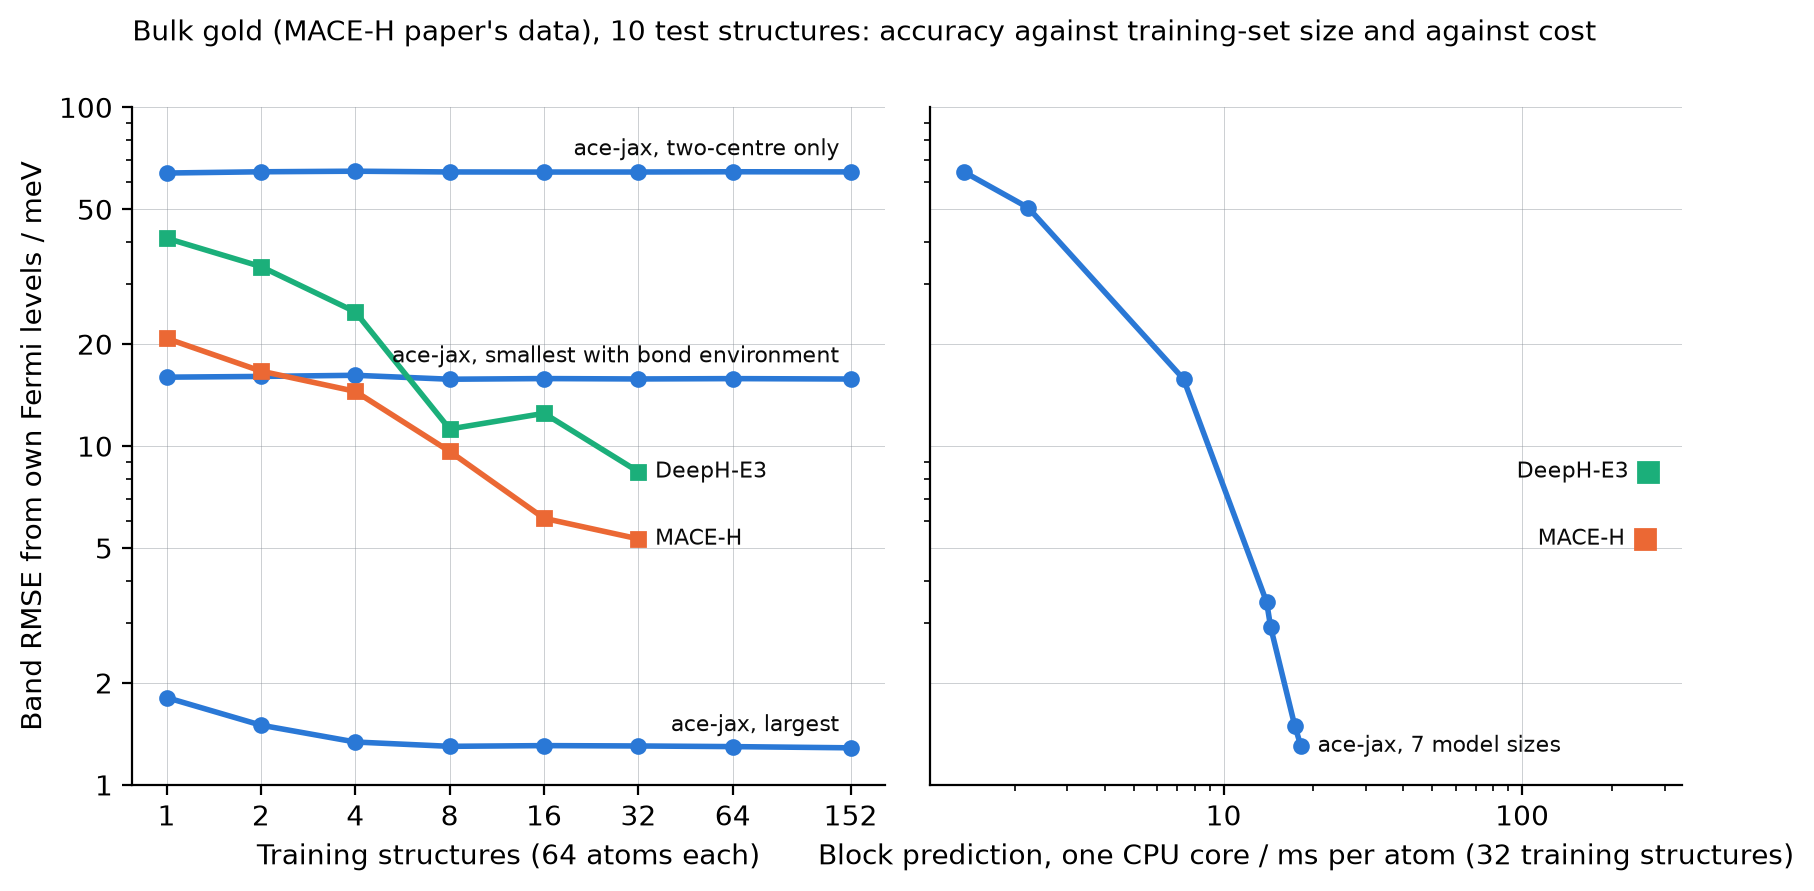
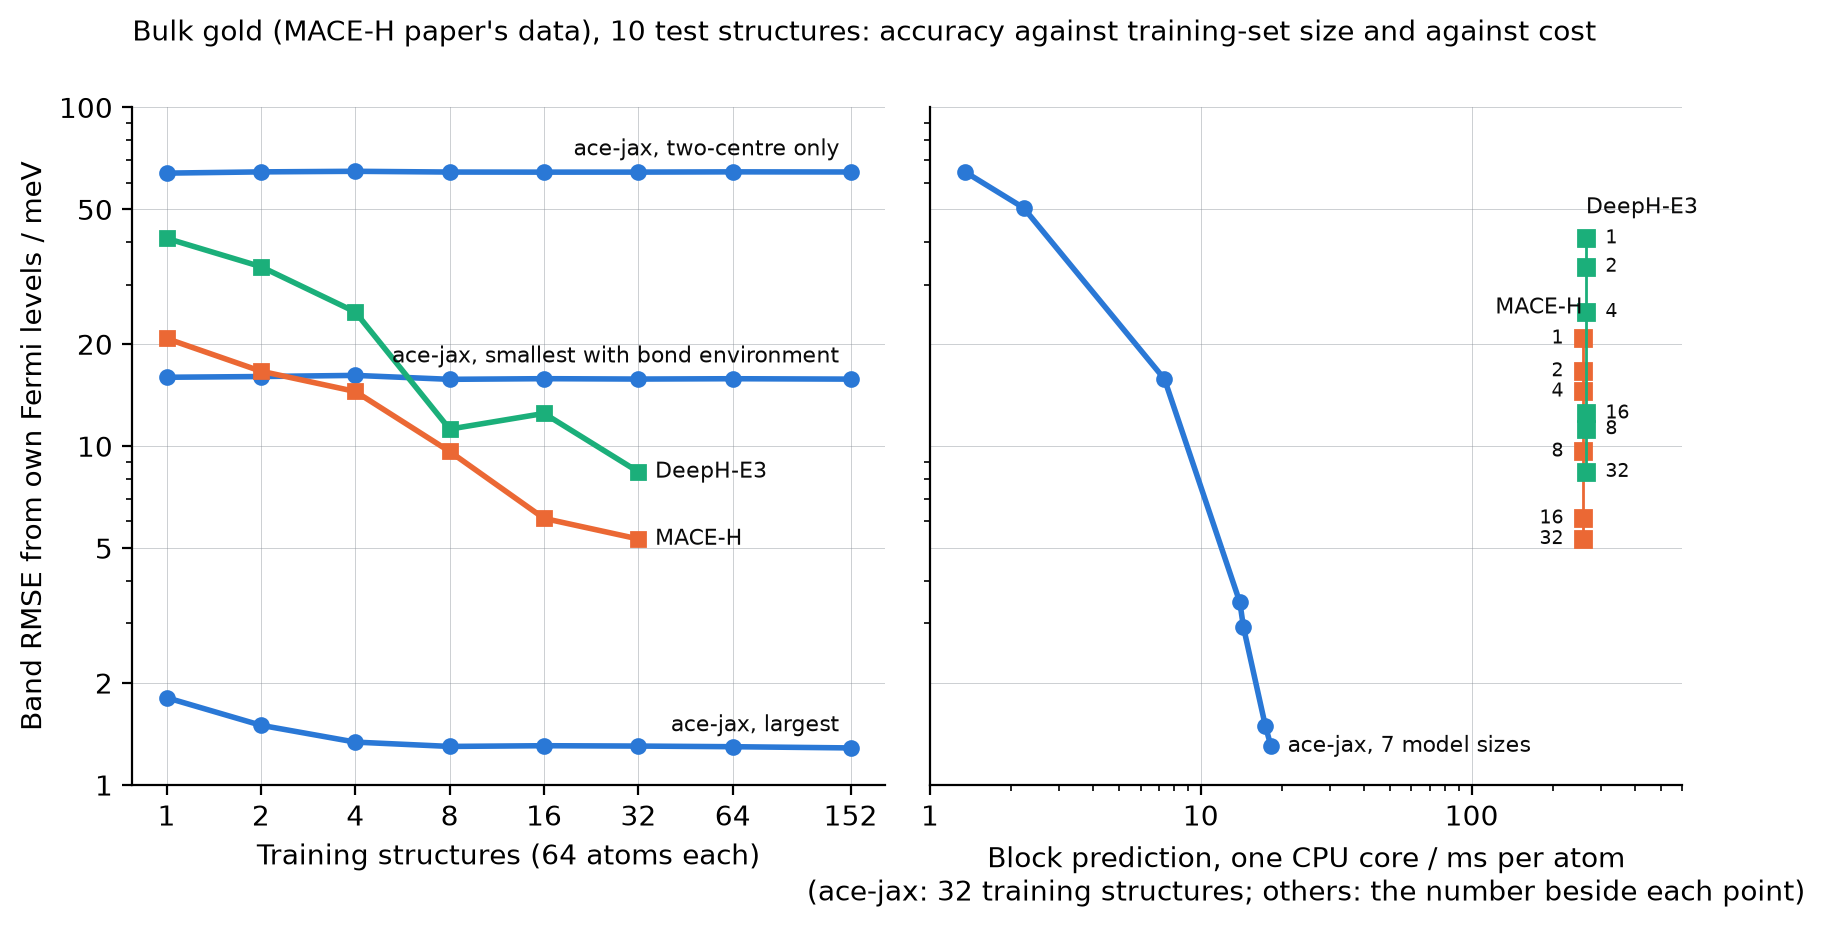
bench(ham): every training-set size of MACE-H and DeepH-E3 on the cost panel

diff --git a/bench/ham/gold_pareto.py b/bench/ham/gold_pareto.py
@@ -49,13 +49,18 @@ na = nb if all(nb in v for v in ace.values()) else max(next(iter(ace.values())))
 xs = [T["ace"][t] for t in order]
 b.plot(xs, [ace[t][na] for t in order], color=ACE, lw=2, marker="o", ms=5)
 b.annotate(f"ace-jax, {len(order)} model sizes", (xs[-1], ace[order[-1]][na]), xytext=(6, 0), textcoords="offset points", va="center", fontsize=8, color=INK)
-for code, col in (("MACE-H", MACEH), ("DeepH-E3", DEEPH)):
-    if code in T and nb in oth.get(code, {}):
-        b.plot([T[code]], [oth[code][nb]], color=col, marker="s", ms=7, ls="")
-        b.annotate(code, (T[code], oth[code][nb]), xytext=(-7, 0), textcoords="offset points", ha="right", va="center", fontsize=8, color=INK)
-b.set_xscale("log"); b.set_xlabel(f"Block prediction, one CPU core / ms per atom ({nb} training structures)")
+for code, col, side in (("MACE-H", MACEH, -1), ("DeepH-E3", DEEPH, 1)):         # every training-set size at the code's one cost
+    if code in T and oth.get(code):
+        ns = sorted(oth[code])
+        b.plot([T[code]] * len(ns), [oth[code][n] for n in ns], color=col, marker="s", ms=6, ls="-", lw=1)
+        for n in ns:
+            b.annotate(str(n), (T[code], oth[code][n]), xytext=(7 * side, 0), textcoords="offset points", ha="right" if side < 0 else "left",
+                       va="center", fontsize=7, color=INK)
+        b.annotate(code, (T[code], max(oth[code].values())), xytext=(0, 9), textcoords="offset points", ha="right" if side < 0 else "left", fontsize=8, color=INK)
+b.set_xscale("log"); b.set_xlabel(f"Block prediction, one CPU core / ms per atom\n(ace-jax: {na} training structures; others: the number beside each point)")
 from matplotlib.ticker import FuncFormatter, NullFormatter
 a.set_yticks([1, 2, 5, 10, 20, 50, 100]); a.yaxis.set_major_formatter(FuncFormatter(lambda v, _: f"{v:g}")); a.yaxis.set_minor_formatter(NullFormatter())
+b.set_xlim(1, 600)
 b.xaxis.set_major_formatter(FuncFormatter(lambda v, _: f"{v:g}"))
 lo, hi = a.get_ylim(); a.set_ylim(max(lo, 0.5), hi)
 for ax in (a, b):
